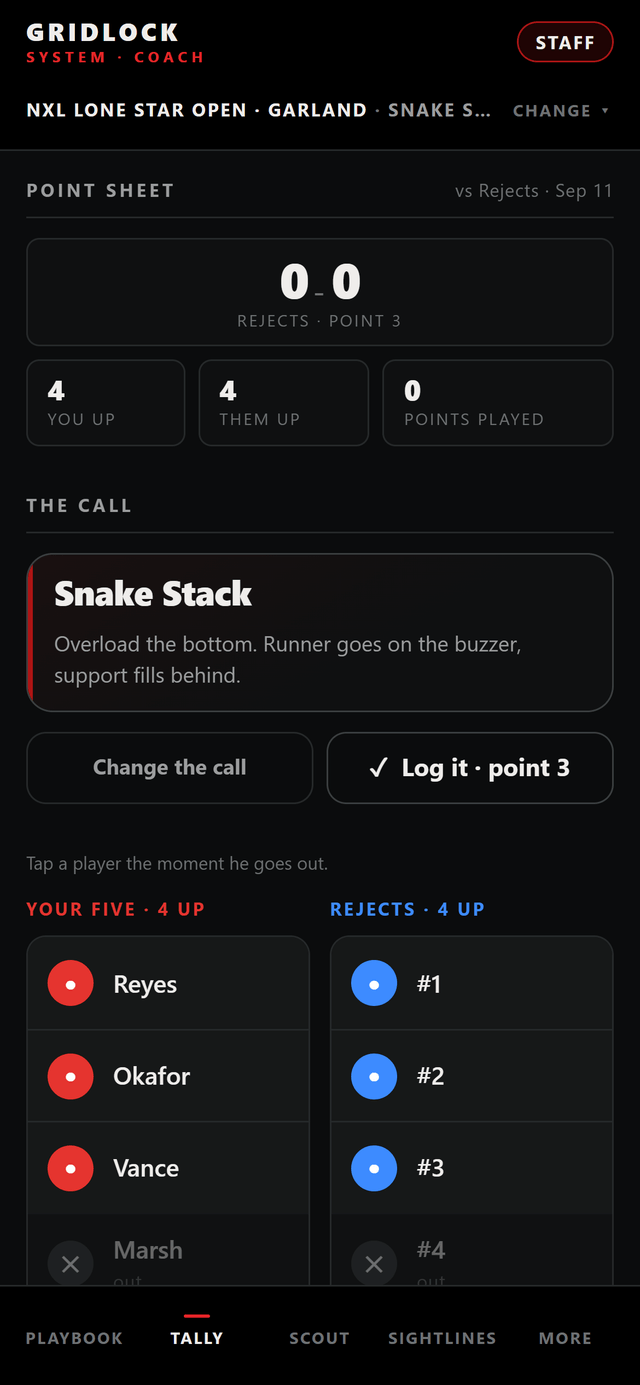
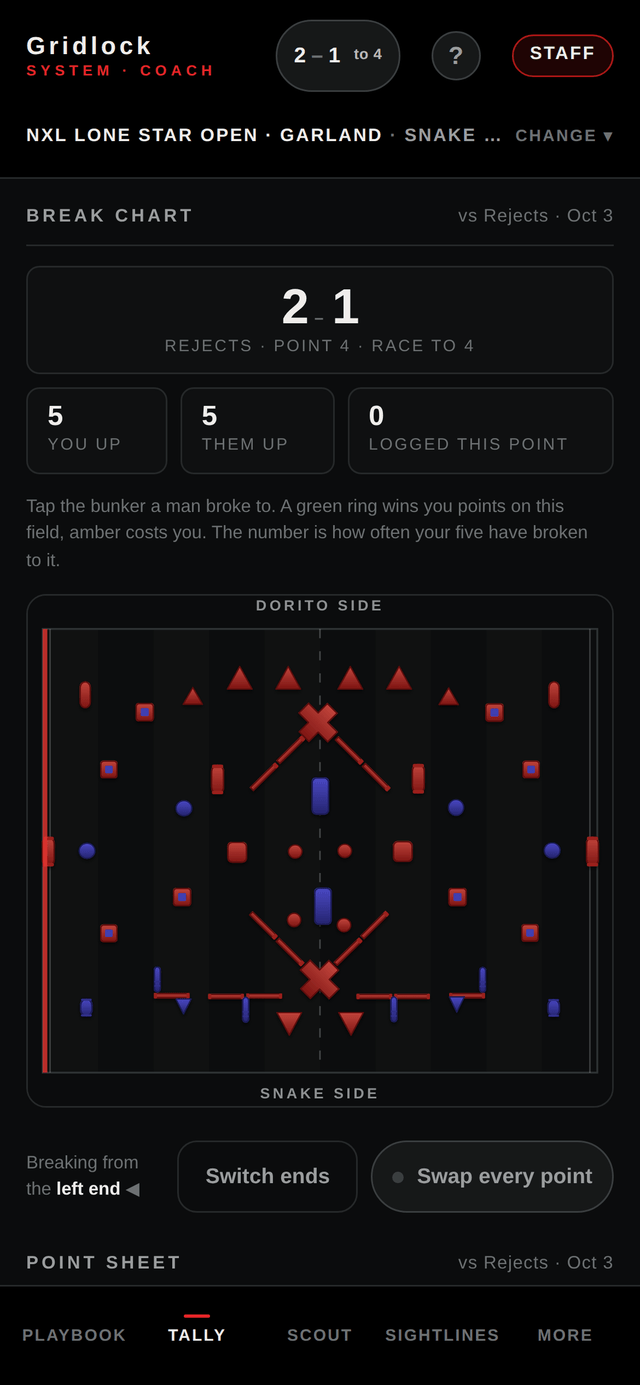
The landing site catches up with the app: Tally first, four tools, between points and between events
The home page sold a playbook, a notebook and a tally written before the
score, the format and the clock existed, and two things on it were wrong.
Support said an account was optional; one is required, a lock on the
phone with no server behind it, and the answer says so now. The Tally
block described a player-first sheet; it is bunker-first, with the score,
the race and where the points come from.

Four tools now: Playbook, Tally, Scout, Sightlines. A "Between points"
block carries the score, the break clock, Who's on and the horn, and a
"Between events" block the record, Cards, Rep and Counter. The stat tiles
read twelve breaks plus your own and three fields measured off the map,
and the hero says the thing a coach in Garland needs to hear first: it
works with no signal.

Captures re-taken on the current build from a seed with the format on it
— race to 4, 2–1, the break clock, nine men, their five by name. Social
preview tags on all three pages; the image is three captures and the mark
with no words, so it serves every brand, and its absolute URL is stamped
from the configured domain so a brand without one carries no broken link.

Claude-Session: https://claude.ai/code/session_019NY29crEcm2oYkRmb2ARNX

diff --git a/site/styles.css b/site/styles.css
@@ -1,6 +1,6 @@
-:root{color-scheme:dark;--bg:#0b0c0d;--panel:#141718;--ink:#efedeb;--mute:#a5aaac;--red:#e5252a;--fill:#ad1515;--line:#303536;font-family:Arial,Helvetica,sans-serif;font-synthesis:none}*{box-sizing:border-box}html{scroll-behavior:smooth;scroll-padding-top:2rem}body{margin:0;background:var(--bg);color:var(--ink);font-size:1rem;line-height:1.65}a{color:inherit;text-underline-offset:5px}a:focus-visible,summary:focus-visible{outline:3px solid #fff;outline-offset:5px}.wrap{width:min(1280px,calc(100% - 80px));margin-inline:auto}.skip{position:fixed;top:-100px;left:20px;background:#fff;color:#111;padding:12px;z-index:100}.skip:focus{top:12px}.header{display:flex;align-items:center;justify-content:space-between;gap:24px;padding-block:26px;border-bottom:1px solid var(--line)}.brand{display:flex;gap:12px;align-items:center;text-decoration:none;font-size:1.35rem;font-weight:900;line-height:1.2;letter-spacing:.08em}.brand img{border:1px solid var(--line);border-radius:9px}.brand small{display:block;color:var(--mute);font-size:.625rem;letter-spacing:.15em;margin-top:6px;font-weight:400}.header nav,.footer nav{display:flex;align-items:center;gap:28px}.header nav>a:not(.button),.footer a{font-size:.875rem;text-decoration:none}.button{display:inline-flex;align-items:center;justify-content:center;gap:22px;min-height:52px;padding:13px 23px;background:var(--fill);border:1px solid #d12828;border-radius:3px;font-weight:700;text-decoration:none;line-height:1.35;transition:background .2s}.button:hover{background:#c61b1b}.button.small{min-height:44px;font-size:.875rem;padding:11px 16px}.hero{display:grid;grid-template-columns:1.45fr .8fr;gap:80px;align-items:center;padding-block:76px 92px}.hero-copy{padding-block:30px}.eyebrow{font-family:Consolas,monospace;color:var(--red);font-size:.75rem;text-transform:uppercase;letter-spacing:.13em;font-weight:700;margin:0 0 22px}h1,h2,h3,p,figure{margin-top:0}h1{font-family:Impact,"Arial Narrow",Arial,sans-serif;font-size:clamp(3rem,5.6vw,5.5rem);font-weight:900;letter-spacing:-.035em;line-height:1.03;margin-bottom:28px}h1 span{color:var(--red)}.intro{font-size:1.1875rem;color:#c5c8c9;line-height:1.65;max-width:410px;margin-bottom:28px}.actions{display:flex;align-items:center;gap:24px;flex-wrap:wrap}.text-link{font-size:.9375rem;font-weight:700}.fine{font-size:.75rem;color:var(--mute);margin:20px 0 34px;max-width:360px}.hero-stats{border-top:1px solid var(--line);display:flex;gap:42px;padding-top:24px}.hero-stats b{font-family:Consolas,monospace;display:block;font-size:1.25rem}.hero-stats span{font-size:.75rem;color:var(--mute)}.hero-screen{position:relative;margin:0;max-width:355px;justify-self:end;background:var(--panel);border:1px solid #3d4446;border-radius:6px;box-shadow:25px 30px 0 #ad151512;overflow:hidden}.screen-label{display:flex;justify-content:space-between;gap:10px;padding:13px 15px;font:700 .6875rem Consolas,monospace;letter-spacing:.04em;border-bottom:1px solid var(--line)}.hero-screen>img{display:block;width:100%;height:auto;max-height:640px;object-fit:cover;object-position:top}.hero-screen figcaption{padding:10px 15px;color:var(--mute);font-size:.6875rem;border-top:1px solid var(--line)}.tools{padding-block:72px;border-top:1px solid var(--line)}.section-heading{margin-bottom:34px}.section-heading .eyebrow{margin-bottom:12px}h2{font-size:clamp(2rem,3.2vw,3rem);line-height:1.12;letter-spacing:-.035em;font-weight:800;margin-bottom:24px}.tool-grid{display:grid;grid-template-columns:repeat(3,minmax(0,1fr));gap:24px}.tool-grid article{padding:26px 26px 0;background:var(--panel);border:1px solid var(--line);border-radius:4px;overflow:hidden}.tool-number{font:.75rem Consolas,monospace;color:var(--red);letter-spacing:.08em}.tool-grid h3{font-size:1.4375rem;line-height:1.2;margin:18px 0 14px;letter-spacing:-.02em}.tool-grid p{color:var(--mute);font-size:.9375rem;line-height:1.65;min-height:100px}.tool-grid img{display:block;width:100%;height:370px;object-fit:cover;object-position:top;border:1px solid var(--line);border-radius:10px 10px 0 0;border-bottom:0}.note{font-size:.8125rem;color:var(--mute);margin:24px 0 0}.keep{display:grid;grid-template-columns:1fr 1fr;gap:80px;border-top:1px solid var(--line);padding-block:72px}.keep p:not(.eyebrow){color:var(--mute);max-width:580px}.keep strong{color:var(--ink)}.start{text-align:center;background:#161011;border-top:3px solid var(--fill);padding:54px 24px;margin-bottom:60px}.start .eyebrow{margin-bottom:15px}.store-links{margin-top:20px;font-size:.8125rem;color:var(--mute);display:flex;gap:24px;justify-content:center}.footer{display:flex;align-items:center;justify-content:space-between;gap:20px;border-top:1px solid var(--line);padding-block:28px;font-size:.8125rem;color:var(--mute)}.document{max-width:780px;padding-block:64px 88px;min-height:70vh}.document h1{font-family:Arial,sans-serif;font-size:3rem;letter-spacing:-.045em;line-height:1.1}.document h2{font-size:1.4375rem;letter-spacing:-.02em;margin-top:38px;margin-bottom:14px}.document p,.document li{color:#bfc4c5}.document .lead{font-size:1.1875rem;color:var(--ink)}.document ul,.document ol{padding-left:24px}.document li{margin-bottom:9px}.document .callout{padding:20px 24px;background:var(--panel);border-left:3px solid var(--fill);margin:28px 0}.document .callout p:last-child{margin-bottom:0}.document details{padding:18px 0;border-bottom:1px solid var(--line)}.document summary{cursor:pointer;min-height:44px;align-content:center;font-weight:700}.document details p{margin:12px 0}.document a{overflow-wrap:anywhere}
-@media(max-width:1050px){.wrap{width:calc(100% - 48px)}.hero{gap:40px;padding-block:42px 60px}.hero-stats{gap:24px}h1{font-size:4.2rem}.hero-screen>img{max-height:550px}.tool-grid article{padding:22px 20px 0}.tool-grid img{height:300px}.tool-grid p{min-height:125px}.keep{gap:40px}}
-@media(max-width:720px){.wrap{width:calc(100% - 36px)}.header{padding-block:18px;gap:12px}.header nav{gap:12px}.header nav>a:not(.button){display:none}.brand{font-size:1rem;gap:8px}.brand img{width:36px;height:36px}.brand small{font-size:.5rem}.header .small{padding:10px 12px;font-size:.8125rem;gap:10px}.hero{grid-template-columns:1fr;gap:28px;padding-top:24px}.hero-copy{padding-block:12px 0}h1{font-size:clamp(2.8rem,10.5vw,4.2rem);letter-spacing:-.035em}.hero .eyebrow{font-size:.6875rem;letter-spacing:.08em}.intro{font-size:1.0625rem}.hero-stats{justify-content:space-between;gap:12px}.hero-stats b{font-size:1.125rem}.hero-stats span{font-size:.6875rem}.hero-screen{justify-self:center;width:min(100%,340px);box-shadow:12px 16px 0 #ad151512}.hero-screen>img{max-height:480px}.tools{padding-block:44px}.tool-grid{grid-template-columns:1fr}.tool-grid article{padding:24px 24px 0}.tool-grid p{min-height:0}.tool-grid img{height:300px;object-fit:cover}.keep{grid-template-columns:1fr;gap:10px;padding-block:44px}.start{margin-bottom:34px}.footer{align-items:flex-start;flex-direction:column;gap:14px}.footer nav{gap:22px}.document{padding-block:42px 60px}.document h1{font-size:2.5rem}}
+:root{color-scheme:dark;--bg:#0b0c0d;--panel:#141718;--ink:#efedeb;--mute:#a5aaac;--red:#e5252a;--fill:#ad1515;--line:#303536;font-family:Arial,Helvetica,sans-serif;font-synthesis:none}*{box-sizing:border-box}html{scroll-behavior:smooth;scroll-padding-top:2rem}body{margin:0;background:var(--bg);color:var(--ink);font-size:1rem;line-height:1.65}a{color:inherit;text-underline-offset:5px}a:focus-visible,summary:focus-visible{outline:3px solid #fff;outline-offset:5px}.wrap{width:min(1280px,calc(100% - 80px));margin-inline:auto}.skip{position:fixed;top:-100px;left:20px;background:#fff;color:#111;padding:12px;z-index:100}.skip:focus{top:12px}.header{display:flex;align-items:center;justify-content:space-between;gap:24px;padding-block:26px;border-bottom:1px solid var(--line)}.brand{display:flex;gap:12px;align-items:center;text-decoration:none;font-size:1.35rem;font-weight:900;line-height:1.2;letter-spacing:.08em}.brand img{border:1px solid var(--line);border-radius:9px}.brand small{display:block;color:var(--mute);font-size:.625rem;letter-spacing:.15em;margin-top:6px;font-weight:400}.header nav,.footer nav{display:flex;align-items:center;gap:28px}.header nav>a:not(.button),.footer a{font-size:.875rem;text-decoration:none}.button{display:inline-flex;align-items:center;justify-content:center;gap:22px;min-height:52px;padding:13px 23px;background:var(--fill);border:1px solid #d12828;border-radius:3px;font-weight:700;text-decoration:none;line-height:1.35;transition:background .2s}.button:hover{background:#c61b1b}.button.small{min-height:44px;font-size:.875rem;padding:11px 16px}.hero{display:grid;grid-template-columns:1.45fr .8fr;gap:80px;align-items:center;padding-block:76px 92px}.hero-copy{padding-block:30px}.eyebrow{font-family:Consolas,monospace;color:var(--red);font-size:.75rem;text-transform:uppercase;letter-spacing:.13em;font-weight:700;margin:0 0 22px}h1,h2,h3,p,figure{margin-top:0}h1{font-family:Impact,"Arial Narrow",Arial,sans-serif;font-size:clamp(3rem,5.6vw,5.5rem);font-weight:900;letter-spacing:-.035em;line-height:1.03;margin-bottom:28px}h1 span{color:var(--red)}.intro{font-size:1.1875rem;color:#c5c8c9;line-height:1.65;max-width:410px;margin-bottom:28px}.actions{display:flex;align-items:center;gap:24px;flex-wrap:wrap}.text-link{font-size:.9375rem;font-weight:700}.fine{font-size:.75rem;color:var(--mute);margin:20px 0 34px;max-width:360px}.hero-stats{border-top:1px solid var(--line);display:flex;gap:42px;padding-top:24px}.hero-stats b{font-family:Consolas,monospace;display:block;font-size:1.25rem}.hero-stats span{font-size:.75rem;color:var(--mute)}.hero-screen{position:relative;margin:0;max-width:355px;justify-self:end;background:var(--panel);border:1px solid #3d4446;border-radius:6px;box-shadow:25px 30px 0 #ad151512;overflow:hidden}.screen-label{display:flex;justify-content:space-between;gap:10px;padding:13px 15px;font:700 .6875rem Consolas,monospace;letter-spacing:.04em;border-bottom:1px solid var(--line)}.hero-screen>img{display:block;width:100%;height:auto;max-height:640px;object-fit:cover;object-position:top}.hero-screen figcaption{padding:10px 15px;color:var(--mute);font-size:.6875rem;border-top:1px solid var(--line)}.tools{padding-block:72px;border-top:1px solid var(--line)}.section-heading{margin-bottom:34px}.section-heading .eyebrow{margin-bottom:12px}h2{font-size:clamp(2rem,3.2vw,3rem);line-height:1.12;letter-spacing:-.035em;font-weight:800;margin-bottom:24px}.tool-grid{display:grid;grid-template-columns:repeat(4,minmax(0,1fr));gap:24px}.tool-grid article{padding:26px 26px 0;background:var(--panel);border:1px solid var(--line);border-radius:4px;overflow:hidden}.tool-number{font:.75rem Consolas,monospace;color:var(--red);letter-spacing:.08em}.tool-grid h3{font-size:1.4375rem;line-height:1.2;margin:18px 0 14px;letter-spacing:-.02em}.tool-grid p{color:var(--mute);font-size:.9375rem;line-height:1.65;min-height:100px}.tool-grid img{display:block;width:100%;height:370px;object-fit:cover;object-position:top;border:1px solid var(--line);border-radius:10px 10px 0 0;border-bottom:0}.note{font-size:.8125rem;color:var(--mute);margin:24px 0 0}.between,.events{border-top:1px solid var(--line);padding-block:64px}.between-grid{display:grid;grid-template-columns:repeat(4,minmax(0,1fr));gap:24px}.between-grid>div{padding:22px 24px;background:var(--panel);border:1px solid var(--line);border-left:3px solid var(--fill);border-radius:4px}.between-grid h3{font-size:1.25rem;line-height:1.2;margin:0 0 10px;letter-spacing:-.02em}.between-grid p{color:var(--mute);font-size:.9375rem;line-height:1.65;margin:0}.keep{display:grid;grid-template-columns:1fr 1fr;gap:80px;border-top:1px solid var(--line);padding-block:72px}.keep p:not(.eyebrow){color:var(--mute);max-width:580px}.keep strong{color:var(--ink)}.start{text-align:center;background:#161011;border-top:3px solid var(--fill);padding:54px 24px;margin-bottom:60px}.start .eyebrow{margin-bottom:15px}.store-links{margin-top:20px;font-size:.8125rem;color:var(--mute);display:flex;gap:24px;justify-content:center}.footer{display:flex;align-items:center;justify-content:space-between;gap:20px;border-top:1px solid var(--line);padding-block:28px;font-size:.8125rem;color:var(--mute)}.document{max-width:780px;padding-block:64px 88px;min-height:70vh}.document h1{font-family:Arial,sans-serif;font-size:3rem;letter-spacing:-.045em;line-height:1.1}.document h2{font-size:1.4375rem;letter-spacing:-.02em;margin-top:38px;margin-bottom:14px}.document p,.document li{color:#bfc4c5}.document .lead{font-size:1.1875rem;color:var(--ink)}.document ul,.document ol{padding-left:24px}.document li{margin-bottom:9px}.document .callout{padding:20px 24px;background:var(--panel);border-left:3px solid var(--fill);margin:28px 0}.document .callout p:last-child{margin-bottom:0}.document details{padding:18px 0;border-bottom:1px solid var(--line)}.document summary{cursor:pointer;min-height:44px;align-content:center;font-weight:700}.document details p{margin:12px 0}.document a{overflow-wrap:anywhere}
+@media(max-width:1050px){.wrap{width:calc(100% - 48px)}.hero{gap:40px;padding-block:42px 60px}.hero-stats{gap:24px}h1{font-size:4.2rem}.hero-screen>img{max-height:550px}.tool-grid{grid-template-columns:repeat(2,minmax(0,1fr))}.tool-grid article{padding:22px 20px 0}.tool-grid img{height:300px}.tool-grid p{min-height:100px}.between-grid{grid-template-columns:repeat(2,minmax(0,1fr))}.keep{gap:40px}}
+@media(max-width:720px){.wrap{width:calc(100% - 36px)}.header{padding-block:18px;gap:12px}.header nav{gap:12px}.header nav>a:not(.button){display:none}.brand{font-size:1rem;gap:8px}.brand img{width:36px;height:36px}.brand small{font-size:.5rem}.header .small{padding:10px 12px;font-size:.8125rem;gap:10px}.hero{grid-template-columns:1fr;gap:28px;padding-top:24px}.hero-copy{padding-block:12px 0}h1{font-size:clamp(2.8rem,10.5vw,4.2rem);letter-spacing:-.035em}.hero .eyebrow{font-size:.6875rem;letter-spacing:.08em}.intro{font-size:1.0625rem}.hero-stats{justify-content:space-between;gap:12px}.hero-stats b{font-size:1.125rem}.hero-stats span{font-size:.6875rem}.hero-screen{justify-self:center;width:min(100%,340px);box-shadow:12px 16px 0 #ad151512}.hero-screen>img{max-height:480px}.tools{padding-block:44px}.tool-grid{grid-template-columns:1fr}.between-grid{grid-template-columns:1fr}.between,.events{padding-block:40px}.tool-grid article{padding:24px 24px 0}.tool-grid p{min-height:0}.tool-grid img{height:300px;object-fit:cover}.keep{grid-template-columns:1fr;gap:10px;padding-block:44px}.start{margin-bottom:34px}.footer{align-items:flex-start;flex-direction:column;gap:14px}.footer nav{gap:22px}.document{padding-block:42px 60px}.document h1{font-size:2.5rem}}
 @media(prefers-reduced-motion:reduce){html{scroll-behavior:auto}.button{transition:none}}
 
 /* The legal entity, named. Apple verifies an Organization enrollment against a

diff --git a/site/index.html b/site/index.html
@@ -4,8 +4,13 @@
   <meta charset="utf-8">
   <meta name="viewport" content="width=device-width, initial-scale=1">
   <meta name="theme-color" content="#0b0c0d">
-  <meta name="description" content="Gridlock Coach: a paintball playbook, point sheet and scouting notebook that stays on your device.">
+  <meta name="description" content="Gridlock Coach: call the break, chart the point bunker by bunker, keep the score and the read on the other pit. Built for X-Ball and 5-man, works with no signal, stays on your phone.">
   <title>Gridlock Coach — Call the break.</title>
+  <meta property="og:type" content="website">
+  <meta property="og:title" content="Gridlock Coach — Call the break. Chart the point.">
+  <meta property="og:description" content="The paintball sideline app for X-Ball and 5-man: the break on the real field, the score and the format, the clock between points, and which bunkers win you points. Works with no signal.">
+  <meta name="twitter:card" content="summary_large_image">
+  <!-- social:start --><meta property="og:url" content="https://gridlockpb.com/"><meta property="og:image" content="https://gridlockpb.com/img/og.png"><meta property="og:image:width" content="1200"><meta property="og:image:height" content="630"><!-- social:end -->
   <link rel="icon" href="img/icon.svg" type="image/svg+xml">
   <link rel="stylesheet" href="styles.css">
 </head>
@@ -19,23 +24,42 @@
   <section class="hero wrap">
     <div class="hero-copy"><p class="eyebrow">Between the buzzer and the next point</p>
       <h1>CALL THE BREAK.<br>DIRECT THE FIVE.<br><span>OWN THE POINT.</span></h1>
-      <p class="intro">Your playbook, point sheet and read on the other pit. Together on the sideline.</p>
+      <p class="intro">Your playbook, point sheet and read on the other pit. Built for X-Ball and 5-man, together on the sideline.</p>
       <div class="actions"><a class="button" href="app.html">Open Gridlock Coach <span aria-hidden="true">↗</span></a><a class="text-link" href="#tools">See the tools</a></div>
-      <p class="fine">Works on your device. No cloud account. Keep a copy of your season.</p>
-      <div class="hero-stats" aria-label="App overview"><div><b>05</b><span>Players. One call.</span></div><div><b>03</b><span>Included fields.</span></div><div><b>LOCAL</b><span>Your season stays here.</span></div></div>
+      <p class="fine">Works with no signal. Your season stays on your phone. Keep a copy of it.</p>
+      <div class="hero-stats" aria-label="App overview"><div><b>12</b><span>Breaks. Plus your own.</span></div><div><b>03</b><span>Fields, measured off the official map.</span></div><div><b>LOCAL</b><span>Your season stays here.</span></div></div>
     </div>
     <figure class="hero-screen"><div class="screen-label"><span>PLAYBOOK / LONE STAR</span><span>01</span></div><img src="img/shots/playbook.png" alt="Gridlock Playbook showing five player routes on a paintball field" width="640" height="1385"><figcaption>Actual app capture · example squad and scouting notes</figcaption></figure>
   </section>
   <section class="tools wrap" id="tools" aria-labelledby="tools-title">
     <div class="section-heading"><p class="eyebrow">A point from every angle</p><h2 id="tools-title">Read it. Call it. Keep it.</h2></div>
     <div class="tool-grid">
-      <article><span class="tool-number">01 / PLAYBOOK</span><h3>A call every player can read.</h3><p>Pick the field and breakout. Set each player's route, face and shot lane. Hand the five their cards.</p><img src="img/shots/playbook.png" alt="Playbook with a measured field and player directions" loading="lazy" width="640" height="1385"></article>
-      <article><span class="tool-number">02 / SCOUT</span><h3>Remember the other pit.</h3><p>Keep team notes, log the calls you see and compare your answers. Your observations build the read.</p><img src="img/shots/scout.png" alt="Scout screen with two pit cards and logged team information" loading="lazy" width="640" height="1385"></article>
-      <article><span class="tool-number">03 / TALLY</span><h3>Every out has a place.</h3><p>Tap through the point. Keep matches, player outs and bunker notes together when you come back to the sheet.</p><img src="img/shots/tally.png" alt="Tally screen for recording outs in the current match" loading="lazy" width="640" height="1385"></article>
+      <article><span class="tool-number">01 / PLAYBOOK</span><h3>A call every player can read.</h3><p>Pick the field and the break, or write your own. Route, face, shot lane and job for each of the five, in your team's own words. Switch ends and it turns round with you.</p><img src="img/shots/playbook.png" alt="Playbook with a measured field and player directions" loading="lazy" width="640" height="1385"></article>
+      <article><span class="tool-number">02 / TALLY</span><h3>Tap the bunker. Tap who won it.</h3><p>Chart the break bunker by bunker. Set your format once and the sheet calls match point, overtime or a tie. By Sunday it tells you which bunkers win you points on this field.</p><img src="img/shots/tally.png" alt="Tally point sheet with the score, the race and the break chart" loading="lazy" width="640" height="1385"></article>
+      <article><span class="tool-number">03 / SCOUT</span><h3>Remember the other pit.</h3><p>Their five by name, the calls you have seen them run and your answer to each, kept against the team. Watch a game you are not in and scout both benches.</p><img src="img/shots/scout.png" alt="Scout screen with two pit cards and logged team information" loading="lazy" width="640" height="1385"></article>
+      <article><span class="tool-number">04 / SIGHTLINES</span><h3>What a bunker can see.</h3><p>Ask from any bunker. Drag the lane to the spot you actually shoot at and see what is in the way, in feet.</p><img src="img/shots/sightlines.png" alt="Sightlines screen with a lane drawn across the field" loading="lazy" width="640" height="1385"></article>
     </div>
     <p class="note">Scout reads and sightlines are coaching aids. They are not predictions or a substitute for the officials' live call.</p>
   </section>
-  <section class="keep wrap" aria-labelledby="keep-title"><div><p class="eyebrow">A notebook you own</p><h2 id="keep-title">Keep the season.<br>Carry the copy.</h2></div><div><p>Rosters, field walks, lineups, grades and clinic sign-ins live on this device. Messages and league notices are local records; share a copy through your own apps when you need to reach the squad.</p><p>Use <strong>More → Nexus → Save a copy</strong> before a tournament or a device change. There is no cloud service to sync or recover your season for you.</p><a class="text-link" href="support.html#backups">How to save and restore →</a></div></section>
+  <section class="between wrap" aria-labelledby="between-title">
+    <div class="section-heading"><p class="eyebrow">Between points</p><h2 id="between-title">The two minutes that decide the next one.</h2></div>
+    <div class="between-grid">
+      <div><h3>The score, one tap.</h3><p>We won it or they won it. The score rides in the header on every screen. Race to 4, 5, 7, or one point a game for 5-man: the sheet calls match point and tells you when it is over.</p></div>
+      <div><h3>The clock you run.</h3><p>Set the break clock to your event's rule. It starts itself when a point is scored and counts down on every screen, so the five are set before the buzzer.</p></div>
+      <div><h3>Who's on.</h3><p>Nine men, five slots. Tap one off, tap one on. The five stands until you change it, and Playbook and the cards name them.</p></div>
+      <div><h3>The horn.</h3><p>When the official's clock runs out you say what your format does: ahead, the match ends; level, a tie or next point wins. Penalties are recorded as what they cost, never called.</p></div>
+    </div>
+  </section>
+  <section class="events wrap" aria-labelledby="events-title">
+    <div class="section-heading"><p class="eyebrow">Between events</p><h2 id="events-title">What you learned, kept.</h2></div>
+    <div class="between-grid">
+      <div><h3>The record.</h3><p>Won, lost, tied and open at this event, counted from finished sheets. Every sheet you have kept, with how it ended.</p></div>
+      <div><h3>Cards.</h3><p>One card a man: his bunker, his job, which way he faces, where he lanes. Hand them over or share the five.</p></div>
+      <div><h3>Rep.</h3><p>The recognition drill. The field draws a break with nothing naming it, and a two-second clock holds you to the call.</p></div>
+      <div><h3>Counter.</h3><p>Your answer to each of their calls, written down against the team and shown beside the call on game day.</p></div>
+    </div>
+  </section>
+  <section class="keep wrap" aria-labelledby="keep-title"><div><p class="eyebrow">A notebook you own</p><h2 id="keep-title">Keep the season.<br>Carry the copy.</h2></div><div><p>There is no server and no signal needed. Rosters, field walks, lineups, grades and clinic sign-ins live on this device. Messages and league notices are local records; share a copy through your own apps when you need to reach the squad.</p><p>Use <strong>More → Nexus → Save a copy</strong> before a tournament or a device change. There is no cloud service to sync or recover your season for you.</p><a class="text-link" href="support.html#backups">How to save and restore →</a></div></section>
   <section class="start wrap"><p class="eyebrow">The next point starts here</p><h2>Make your call.</h2><a class="button" href="app.html">Open the app <span aria-hidden="true">↗</span></a><div class="store-links"><!-- store-links:start --><span class="store-status">Store downloads are not available in this build.</span><!-- store-links:end --></div></section>
 </main>
 <footer class="footer wrap"><span>Gridlock System · powered by UPRA<br/><small>&copy; 2026 United Paintball Referee Association LLC &middot; Florida, USA</small></span><nav aria-label="Footer"><a href="privacy.html">Privacy</a><a href="support.html">Support</a></nav></footer>

diff --git a/site/support.html b/site/support.html
@@ -1,10 +1,10 @@
 <!doctype html>
-<html lang="en"><head><meta charset="utf-8"><meta name="viewport" content="width=device-width, initial-scale=1"><meta name="theme-color" content="#0b0c0d"><meta name="description" content="Help with Gridlock Coach, local backups, clinic sign-ins and device storage."><title>Support — Gridlock Coach</title><link rel="icon" href="img/icon.svg" type="image/svg+xml"><link rel="stylesheet" href="styles.css"></head>
+<html lang="en"><head><meta charset="utf-8"><meta name="viewport" content="width=device-width, initial-scale=1"><meta name="theme-color" content="#0b0c0d"><meta name="description" content="Help with Gridlock Coach, local backups, clinic sign-ins and device storage."><title>Support — Gridlock Coach</title><meta property="og:type" content="website"><meta property="og:title" content="Gridlock Coach — Support"><meta property="og:description" content="Save and restore a season, clinic codes, working with no signal, and how to reach us."><meta name="twitter:card" content="summary_large_image"><!-- social:start --><meta property="og:url" content="https://gridlockpb.com/support.html"><meta property="og:image" content="https://gridlockpb.com/img/og.png"><meta property="og:image:width" content="1200"><meta property="og:image:height" content="630"><!-- social:end --><link rel="icon" href="img/icon.svg" type="image/svg+xml"><link rel="stylesheet" href="styles.css"></head>
 <body><a class="skip" href="#main">Skip to content</a><header class="header wrap"><a class="brand" href="index.html"><img src="img/icon.svg" width="42" height="42" alt=""><span>Gridlock<small>SYSTEM · COACH EDITION</small></span></a><nav aria-label="Main"><a href="index.html">Home</a><a class="button small" href="app.html">Open the app ↗</a></nav></header>
 <main id="main" class="document wrap"><p class="eyebrow">Coach support</p><h1>Keep your place.<br>Get back to the point.</h1><p class="lead">Start with the quick fixes below. Your season lives on the device where you entered it.</p>
 <h2 id="backups">Save and restore a season</h2><ol><li>Open <strong>More → Nexus</strong> in the app.</li><li>Choose <strong>Save a copy</strong> and keep the downloaded file somewhere you can find again. If a download or share sheet does not appear, use <strong>Show it as text</strong> and save the complete text.</li><li>On the other device, open <strong>Load a copy</strong> and select that file. Review the squad and contents before loading it.</li><li>Use merge to combine the copy with the current season, or replacement only when you intend to replace the current data. Save the current season first.</li></ol><div class="callout"><p><strong>A class code is not a cloud invitation.</strong> A class and its sign-in sheet live on the device that created them. Pass that device around for sign-ins, or deliberately move a saved copy. Another phone does not automatically receive the class.</p></div>
 <h2>Common questions</h2>
-<details><summary>Do I need an account?</summary><p>Playbook, scouting, tally and participant sign-in can be used without a cloud account. Staff tools use an account created on this device. That login does not carry to another browser or phone.</p></details>
+<details><summary>Do I need an account?</summary><p>Yes, one you create on this phone. It is a lock on the device, not a cloud login: there is no server, so it cannot be looked up or reset from anywhere else, and it does not carry to another phone. Your season is a separate store, so a new account on a new phone loses nothing that was logged; Save a copy is how a season moves. Signing a clinic sheet from a class link needs no account.</p></details>
 <details><summary>Why is the app empty on another phone?</summary><p>Gridlock does not sync through a server. Use Save a copy on the original device and Load a copy on the destination device. Opening the app from a different browser or web address can also open a separate storage area.</p></details>
 <details><summary>What if my data disappeared?</summary><p>Return to the original browser and address first. Clearing site data, private browsing sessions, resetting a device or uninstalling can remove local information. Installed native builds also keep a device-storage copy and try to restore it when available. In a browser, restore your own saved copy. There is no remote recovery service.</p></details>
 <details><summary>Did my message or league notice reach the team?</summary><p>Messages and league notices are kept on this device. Saving a notice is not proof that anyone received it. Use a sharing option and finish sending in your chosen messaging app, or copy the text there yourself.</p></details>

diff --git a/site/privacy.html b/site/privacy.html
@@ -1,5 +1,5 @@
 <!doctype html>
-<html lang="en"><head><meta charset="utf-8"><meta name="viewport" content="width=device-width, initial-scale=1"><meta name="theme-color" content="#0b0c0d"><meta name="description" content="How Gridlock Coach stores your season on your device and handles copies you choose to share."><title>Privacy — Gridlock Coach</title><link rel="icon" href="img/icon.svg" type="image/svg+xml"><link rel="stylesheet" href="styles.css"></head><body><a class="skip" href="#main">Skip to content</a><header class="header wrap"><a class="brand" href="index.html"><img src="img/icon.svg" width="42" height="42" alt=""><span>Gridlock<small>SYSTEM · COACH EDITION</small></span></a><nav aria-label="Main"><a href="support.html">Support</a><a class="button small" href="app.html">Open the app ↗</a></nav></header>
+<html lang="en"><head><meta charset="utf-8"><meta name="viewport" content="width=device-width, initial-scale=1"><meta name="theme-color" content="#0b0c0d"><meta name="description" content="How Gridlock Coach stores your season on your device and handles copies you choose to share."><title>Privacy — Gridlock Coach</title><meta property="og:type" content="website"><meta property="og:title" content="Gridlock Coach — Privacy"><meta property="og:description" content="Your season stays on your device. What the app stores, where, and what leaves it only when you say so."><meta name="twitter:card" content="summary_large_image"><!-- social:start --><meta property="og:url" content="https://gridlockpb.com/privacy.html"><meta property="og:image" content="https://gridlockpb.com/img/og.png"><meta property="og:image:width" content="1200"><meta property="og:image:height" content="630"><!-- social:end --><link rel="icon" href="img/icon.svg" type="image/svg+xml"><link rel="stylesheet" href="styles.css"></head><body><a class="skip" href="#main">Skip to content</a><header class="header wrap"><a class="brand" href="index.html"><img src="img/icon.svg" width="42" height="42" alt=""><span>Gridlock<small>SYSTEM · COACH EDITION</small></span></a><nav aria-label="Main"><a href="support.html">Support</a><a class="button small" href="app.html">Open the app ↗</a></nav></header>
 <main id="main" class="document wrap"><p class="eyebrow">Privacy notice · September 11, 2026</p><h1>Your season stays<br>on your device.</h1><p class="lead">This notice describes the Gridlock Coach build supplied with these pages. It has no analytics, advertising SDK, tracking service or cloud database.</p>
 <h2>What the app stores</h2><p>Information you enter is saved locally: your roster, scouting observations and voice-log transcripts, matches and point sheets, field notes, lineups, player grades, messages, class details and participant responses, league groups and notices, and app settings. A local staff account stores its email and a salted password hash. The app does not send those records to a Gridlock server.</p>
 <h2>Optional voice dictation</h2><p>Voice log asks for microphone and, where required, speech-recognition permission only after you choose Start listening. It uses your device or browser's speech recognition provider. That provider may send audio to its servers for recognition, require an internet connection, and handle audio under its own policies. Gridlock does not retain audio recordings. It saves finalized text and the associated team, player, field, match, point and time on your device; original text remains with a corrected event. Full season exports include these records. Stop listening, leaving the voice screen, changing its context or putting the app in the background ends capture. You can use typed observations without microphone permission.</p>

diff --git a/scripts/seed.js b/scripts/seed.js
@@ -17,13 +17,35 @@ module.exports = {
     name: "Rejects", tend: "Snake", threat: 4, pts: 186,
     notes: "Two off the break to the snake. Slow to rotate once the front player is out.",
   },
-  point: 3,
-  tally: [
-    { pt: 3, side: "them", name: "#4" },
-    { pt: 3, side: "us", name: "Marsh" },
-    { pt: 2, side: "us", name: "Reyes" },
-    { pt: 2, side: "them", name: "#2" },
+  point: 4,
+  // One match in play, with the format on it: race to 4, a 2–1 score, the
+  // break clock set, nine men with five standing. Rows carry its id.
+  matches: [{ id: "shot-m1", at: Date.now() - 1800000, vs: "Rejects", layout: "lso", raceTo: 4, breakClock: 90, end: "left", swapEnds: false }],
+  matchId: "shot-m1",
+  results: [
+    { m: "shot-m1", pt: 1, won: "us", at: Date.now() - 1500000, read: "right" },
+    { m: "shot-m1", pt: 2, won: "them", at: Date.now() - 1100000 },
+    { m: "shot-m1", pt: 3, won: "us", at: Date.now() - 600000, read: "right" },
   ],
+  lineups: { "shot-m1|1": ["Reyes", "Okafor", "Vance", "Marsh", "Bright"] },
+  tally: [
+    { m: "shot-m1", pt: 3, side: "them", name: "#4 Dill", layout: "lso", vs: "Rejects", script: "snake" },
+    { m: "shot-m1", pt: 3, side: "us", name: "Marsh", layout: "lso", vs: "Rejects", script: "snake" },
+    { m: "shot-m1", pt: 2, side: "us", name: "Reyes", layout: "lso", vs: "Rejects", script: "hold" },
+    { m: "shot-m1", pt: 2, side: "them", name: "#2 Ng", layout: "lso", vs: "Rejects", script: "hold" },
+  ],
+  calls: [
+    { m: "shot-m1", pt: 1, script: "snake", layout: "lso", vs: "Rejects", at: Date.now() - 1600000 },
+    { m: "shot-m1", pt: 2, script: "hold", layout: "lso", vs: "Rejects", at: Date.now() - 1200000 },
+    { m: "shot-m1", pt: 3, script: "snake", layout: "lso", vs: "Rejects", at: Date.now() - 700000 },
+  ],
+  scout: {
+    Rejects: { tend: "Snake", threat: 4, notes: "Two off the break to the snake. Slow to rotate once the front player is out.",
+      players: [{ num: "4", name: "Dill", wire: "snake", note: "", threat: 4 }, { num: "2", name: "Ng", wire: "dorito", note: "", threat: 3 },
+                { num: "9", name: "Ortega", wire: "snake", note: "", threat: 3 }, { num: "17", name: "Baker", wire: "centre", note: "", threat: 3 },
+                { num: "21", name: "Lowe", wire: "dorito", note: "", threat: 2 }] },
+    "Blast Camp": { tend: "Balanced", threat: 5, notes: "Snake runner is #7, goes on the buzzer every time. Weak on the D-wire when they trade." },
+  },
   groups: [
     { id: "ops", name: "Ops", members: [
       { name: "Dana Whitlock", phone: "5550142" }, { name: "Marcus Iyer", phone: "5550188" },
@@ -42,5 +64,9 @@ module.exports = {
     { name: "Vance", num: 11, p: "GP", s: "snake" },
     { name: "Marsh", num: 22, p: "D-wire MD", s: "Tr" },
     { name: "Bright", num: 5, p: "back centre", s: "MD hold" },
+    { name: "Nguyen", num: 9, p: "snake", s: "GP" },
+    { name: "Walsh", num: 14, p: "MD", s: "D-wire" },
+    { name: "Cole", num: 2, p: "GP", s: "snake MW" },
+    { name: "Ito", num: 8, p: "back centre", s: "MT 50" },
   ],
 };

diff --git a/scripts/contact.js b/scripts/contact.js
@@ -44,9 +44,23 @@ function supportBlock(config, short) {
     : `<p>A support contact has not been configured for this distribution. Contact the person who supplied your copy of ${esc(short)}.</p>`;
 }
 function stampSupport(text, config, short) {
-  return text.replace(/<!-- support-contact:start -->[\s\S]*?<!-- support-contact:end -->/g, `<!-- support-contact:start -->${supportBlock(config, short)}<!-- support-contact:end -->`);
+  return stampSocial(text.replace(/<!-- support-contact:start -->[\s\S]*?<!-- support-contact:end -->/g, `<!-- support-contact:start -->${supportBlock(config, short)}<!-- support-contact:end -->`), config);
+}
+// Social preview tags need an absolute image URL, so they exist only once a
+// domain is configured. The image itself carries no words, so it is the same
+// file in every brand. The page's own og:title and description sit outside the
+// marker and are brand-transformed like any other text.
+function socialBlock(config, page) {
+  if (!config.domain) return '';
+  const base = `https://${esc(config.domain)}/`;
+  return `<meta property="og:url" content="${base}${page}"><meta property="og:image" content="${base}img/og.png"><meta property="og:image:width" content="1200"><meta property="og:image:height" content="630">`;
+}
+function stampSocial(text, config) {
+  const page = /<title>Support/.test(text) ? 'support.html' : /<title>Privacy/.test(text) ? 'privacy.html' : '';
+  return text.replace(/<!-- social:start -->[\s\S]*?<!-- social:end -->/, `<!-- social:start -->${socialBlock(config, page)}<!-- social:end -->`);
 }
 function stampIndex(text, config) {
+  text = stampSocial(text, config);
   const stores = [];
   if (config.appstore) stores.push(`<a href="https://apps.apple.com/app/id${config.appstore}">View on the App Store</a>`);
   if (config.play) stores.push(`<a href="${esc(config.play)}">View on Google Play</a>`);
@@ -88,4 +102,4 @@ function main() {
   console.log('Regenerate artifacts and run npm run site:check -- --release before publishing.');
 }
 if (require.main === module) { try { main(); } catch (err) { console.error(err.message); process.exitCode = 1; } }
-module.exports = { KEYS, readContact, apply, supportBlock, stampSupport, stampIndex, assetLinks };
+module.exports = { KEYS, readContact, apply, supportBlock, stampSupport, stampIndex, stampSocial, assetLinks };

diff --git a/scripts/og-image.js b/scripts/og-image.js
@@ -1,0 +1,34 @@
+#!/usr/bin/env node
+/* The social preview image: 1200×630, three captures — Playbook, Tally,
+   Scout — standing on the dark ground with the mark beside them. No words,
+   on purpose: the same file serves every brand and the page's own og:title
+   carries the name. Reads site/img/shots/, so run it after npm run shots. */
+const fs = require("fs");
+const path = require("path");
+const sharp = require("sharp");
+const SITE = path.join(__dirname, "..", "site");
+(async () => {
+  const W = 1200, H = 630, TOP = 36, GAP = 28;
+  const shots = ["playbook", "tally", "scout"].map(n => path.join(SITE, "img", "shots", `${n}.png`));
+  for (const f of shots) if (!fs.existsSync(f)) throw new Error(`No capture at ${path.relative(process.cwd(), f)}; run npm run shots first.`);
+  // Each phone scaled to a common width, then cropped to the frame height so
+  // the header, the call and the field are what shows.
+  const PW = 300;
+  const phones = [];
+  for (const f of shots) {
+    const buf = await sharp(f).resize({ width: PW }).png().toBuffer();
+    const m = await sharp(buf).metadata();
+    phones.push(await sharp(buf).extract({ left: 0, top: 0, width: PW, height: Math.min(m.height, H - TOP) }).png().toBuffer());
+  }
+  const icon = await sharp(path.join(SITE, "img", "icon-512.png")).resize(150, 150).png().toBuffer();
+  const left0 = 60;
+  const ground = Buffer.from(`<svg width="${W}" height="${H}"><rect width="${W}" height="${H}" fill="#0b0c0d"/>
+    <rect x="0" y="${H - 6}" width="${W}" height="6" fill="#ad1515"/></svg>`);
+  const comps = phones.map((p, i) => ({ input: p, left: left0 + i * (PW + GAP), top: TOP }));
+  const iconLeft = left0 + 3 * (PW + GAP) + 40;
+  comps.push({ input: icon, left: iconLeft, top: Math.round(H / 2) - 75 });
+  const out = await sharp(ground).composite(comps).png({ compressionLevel: 9 }).toBuffer();
+  const dest = path.join(SITE, "img", "og.png");
+  fs.writeFileSync(dest, out);
+  console.log(`${path.relative(process.cwd(), dest)}: ${(out.length / 1024).toFixed(0)} KB, ${W}×${H}`);
+})().catch(e => { console.error(e.message); process.exit(1); });
